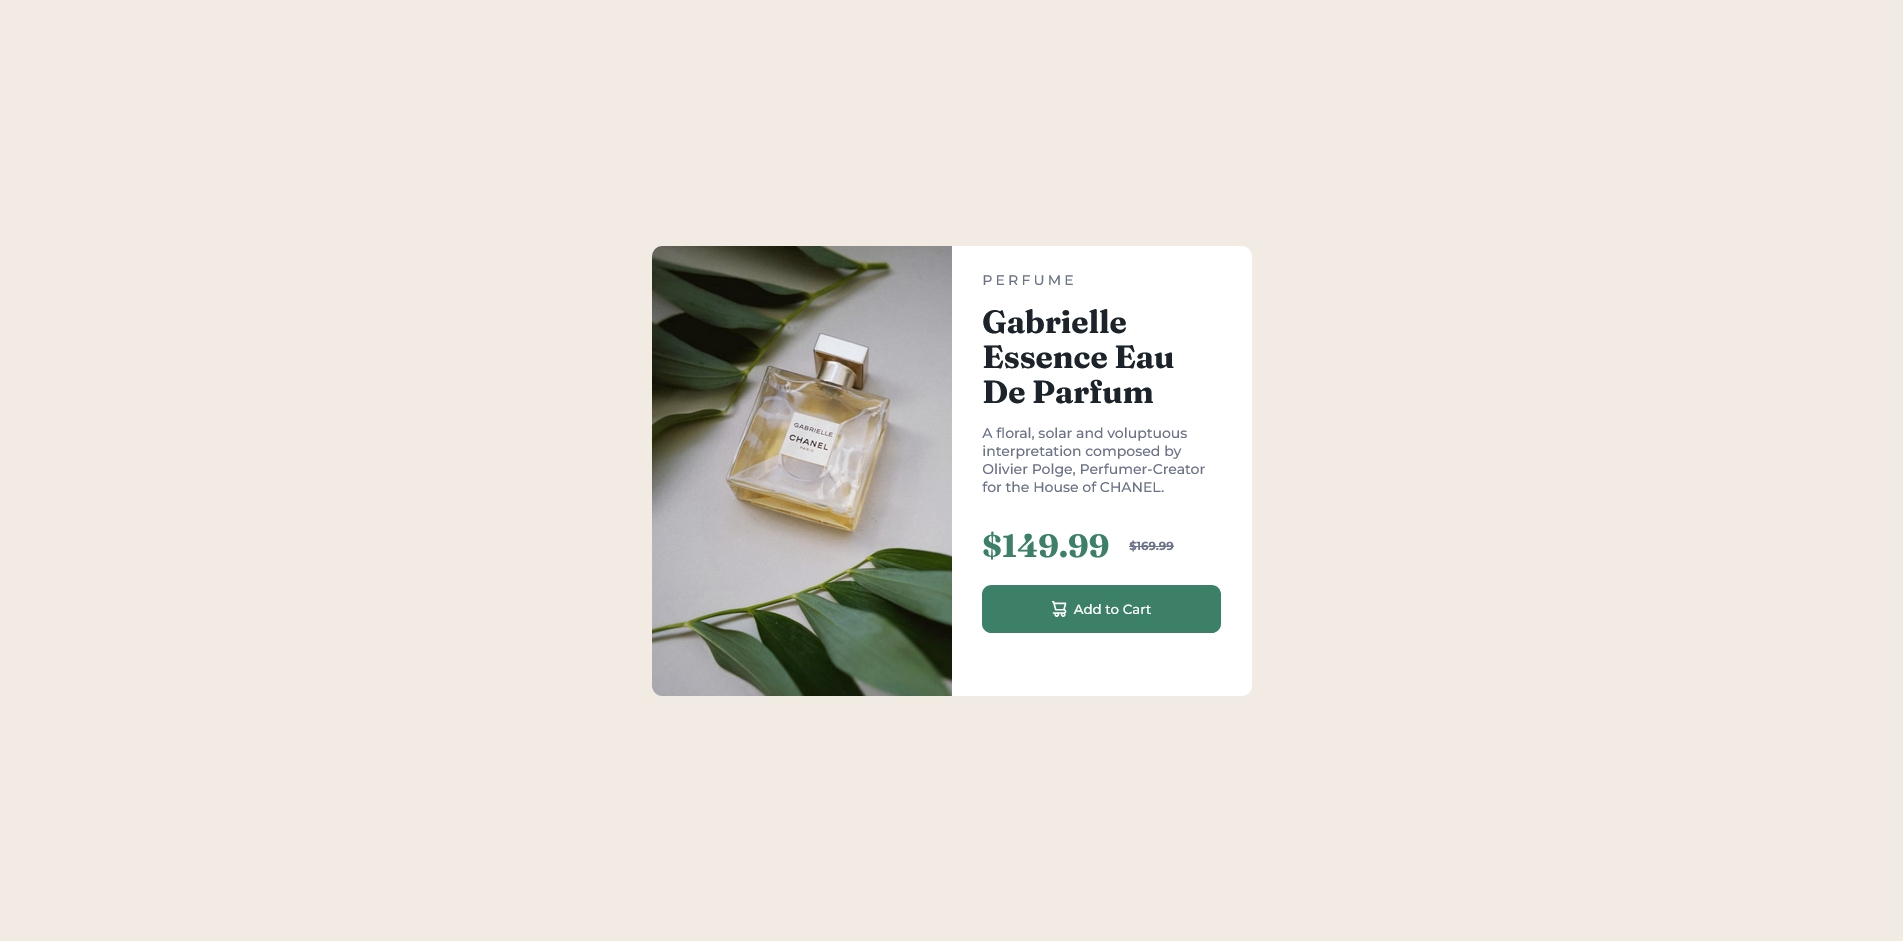
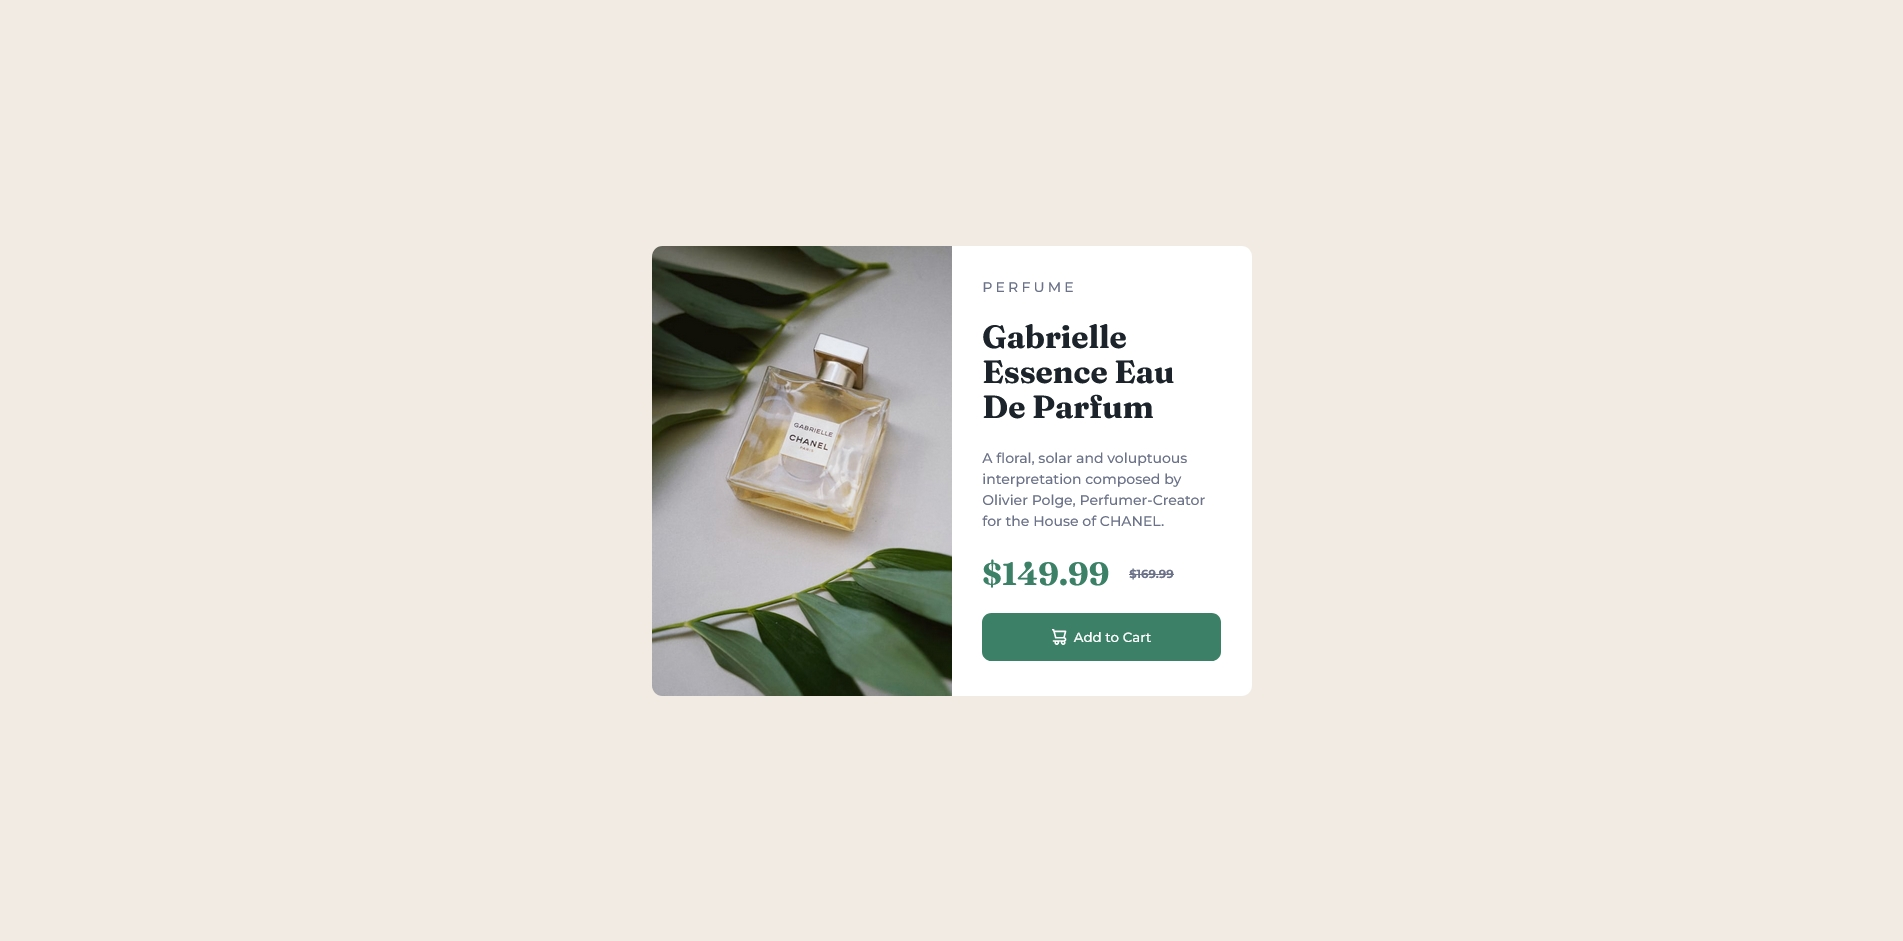
Fix responsive Desktop

Changed region(s): [[0.4961, 0.3082, 0.6511, 0.7088], [0.5271, 0.2774, 0.5581, 0.3082]]

diff --git a/card_product_preview/index.html b/card_product_preview/index.html
@@ -21,7 +21,7 @@
             <div class="stack-l">
               <p class="card__category">PERFUME</p>
               <h1 class="card__title">Gabrielle Essence Eau De Parfum</h1>
-              <p>
+              <p class="card__text">
                 A floral, solar and voluptuous interpretation composed by
                 Olivier Polge, Perfumer-Creator for the House of CHANEL.
               </p>
@@ -39,16 +39,20 @@
             </div>
           </div>
         </div>
-        <div class="card__media">
+        <picture class="card__media">
+          <source
+            media="(min-width: 460px)"
+            srcset="./assets/images/image-product-desktop.jpg"
+          />
+          <source
+            media="(max-width: 460px)"
+            srcset="./assets/images/image-product-mobile.jpg"
+          />
           <img
             src="./assets/images/image-product-mobile.jpg"
             alt="Image of a Gabrielle Essence perfume bottle along with some green leaves."
           />
-          <img
-            src="./assets/images/image-product-desktop.jpg"
-            alt="Image of a Gabrielle Essence perfume bottle along with some green leaves."
-          />
-        </div>
+        </picture>
       </article>
     </div>
   </body>

diff --git a/card_product_preview/assets/styles/styles.css b/card_product_preview/assets/styles/styles.css
@@ -50,7 +50,7 @@ body {
 .cover-l {
   align-items: center;
   display: flex;
-  height: 100vh;
+  min-block-size: 100vh;
 }
 
 .stack-l {
@@ -135,18 +135,31 @@ CARD
   line-height: 1.1em;
 }
 
-@media screen and (min-width: 420px) {
+@media screen and (min-width: 400px) {
+  /** Layout ----------------*/
   .center-l {
     padding-inline-end: 2.2em;
     padding-inline-start: 2.2em;
   }
 
-  .card__media :nth-child(1) {
-    display: none;
+  .stack-l > * + * {
+    margin-block-start: 1rem;
+  }
+}
+
+@media screen and (min-width: 620px) {
+  /** Layout ----------------*/
+  .stack-l {
+    margin-block-start: 3.2rem;
+    margin-block-end: 3.2rem;
   }
 
-  .card__media :nth-child(2) {
-    display: block;
+  .stack-l > * + * {
+    margin-block-start: 2.3rem;
+  }
+
+  .card__text {
+    line-height: 1.5em;
   }
 }
 
